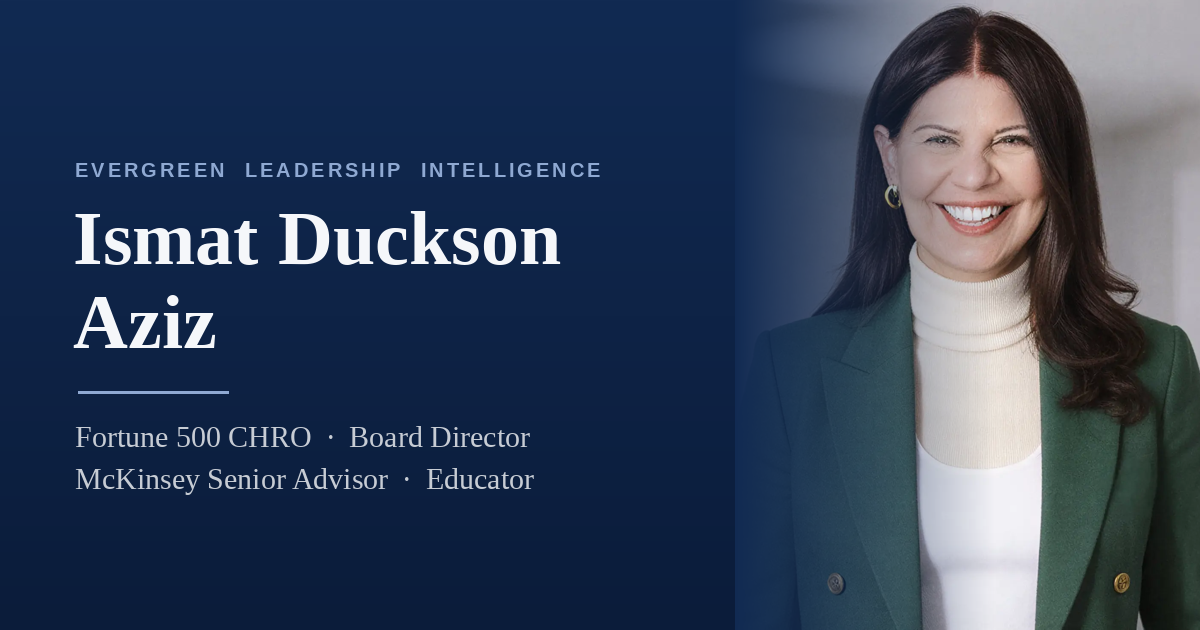
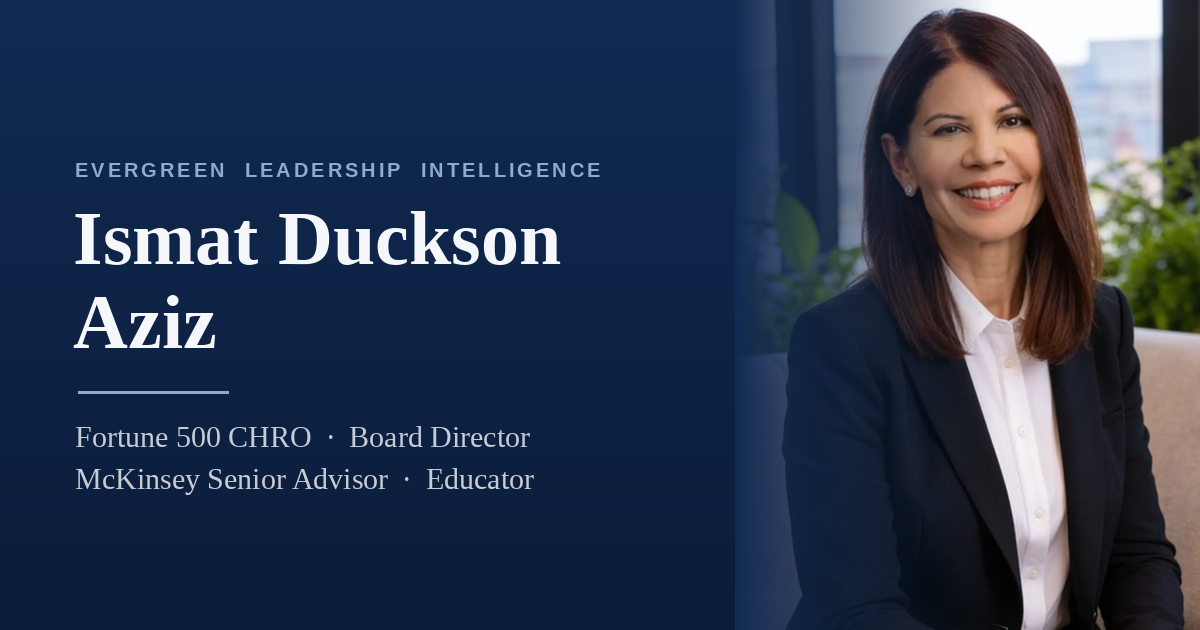
Swap in new bio photography (hero #2, advisor/director/educator, video poster) + refresh OG

Changed region(s): [[0.6475, 0.0, 1.0, 1.0]]

diff --git a/ismat-duckson-aziz/index.html b/ismat-duckson-aziz/index.html
@@ -330,7 +330,7 @@
       </div>
     </div>
     <div class="portrait">
-      <img data-edit-img="hero_photo" src="assets/ismat-05.webp" alt="Ismat Duckson Aziz">
+      <img data-edit-img="hero_photo" src="assets/ismat-bio-02.webp" alt="Ismat Duckson Aziz">
     </div>
   </div>
 </header>
@@ -341,7 +341,7 @@
     <div class="sec-head"><h2 class="whois-title" data-edit="whois_title">Who Is Ismat?</h2></div>
     <p data-edit="whois_body">Ismat Duckson Aziz is one of the most experienced human capital leaders in American business, and one of the quieter ones about it. Across five Fortune 500 CHRO roles, she sat in the rooms where the largest workforce decisions were made, and built a point of view there that she is only now beginning to share widely. Hear it from her directly.</p>
     <div class="vsl" data-edit-video="video">
-      <img src="assets/ismat-02.webp" alt="Ismat Duckson Aziz">
+      <img src="assets/ismat-bio-05.webp" alt="Ismat Duckson Aziz">
       <div class="play"></div>
     </div>
     <div class="center-cta"><a href="#connect" class="btn btn-ghost">Connect with Ismat</a></div>
@@ -401,7 +401,7 @@
 <section class="light" id="connect">
   <div class="wrap connect-grid">
     <div class="connect-copy">
-      <div class="connect-avatar"><img data-edit-img="hero_photo" src="assets/ismat-05.webp" alt="Ismat Duckson Aziz"></div>
+      <div class="connect-avatar"><img data-edit-img="hero_photo" src="assets/ismat-bio-02.webp" alt="Ismat Duckson Aziz"></div>
       <span class="eyebrow">Start a conversation</span>
       <h2 data-edit="connect_title">Bring Ismat into the room.</h2>
       <p data-edit="connect_body">Tell her what you are working on. If it is an advisory engagement, a board search, a stage, or a leader you are developing, she will tell you whether and how she can help.</p>
@@ -497,7 +497,7 @@
       <a href="#connect" class="btn btn-ghost">Explore an engagement</a>
       <div class="role-related">Also explore <a href="#director">The Director</a> and <a href="#educator">The Educator</a></div>
     </div>
-    <div class="media"><img data-edit-img="advisor_photo" src="assets/ismat-01.webp" alt="Ismat Duckson Aziz"></div>
+    <div class="media"><img data-edit-img="advisor_photo" src="assets/ismat-bio-04.webp" alt="Ismat Duckson Aziz"></div>
   </div>
 </section>
 
@@ -512,7 +512,7 @@
 <!-- DIRECTOR expanded -->
 <section class="light" id="director">
   <div class="wrap split light">
-    <div class="media"><img data-edit-img="director_photo" src="assets/ismat-03.webp" alt="Ismat Duckson Aziz"></div>
+    <div class="media"><img data-edit-img="director_photo" src="assets/ismat-bio-03.webp" alt="Ismat Duckson Aziz"></div>
     <div class="body">
       <div class="role-kicker"><span class="rk-num">02</span><span class="rk-name">The Director</span></div>
       <h2>Governance judgment, earned in the operating seat.</h2>
@@ -566,7 +566,7 @@
       <a href="#connect" class="btn btn-dark">Invite Ismat to teach or speak</a>
       <div class="role-related">Also explore <a href="#advisor">The Advisor</a> and <a href="#director">The Director</a></div>
     </div>
-    <div class="media"><img data-edit-img="educator_photo" src="assets/ismat-04.webp" alt="Ismat Duckson Aziz"></div>
+    <div class="media"><img data-edit-img="educator_photo" src="assets/ismat-bio-01.webp" alt="Ismat Duckson Aziz"></div>
   </div>
 </section>
 
